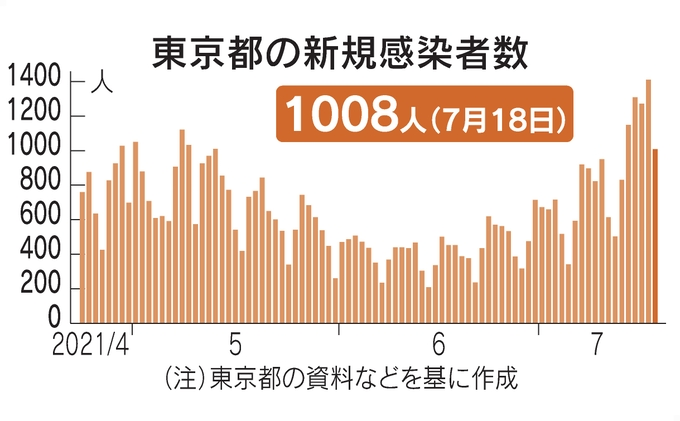
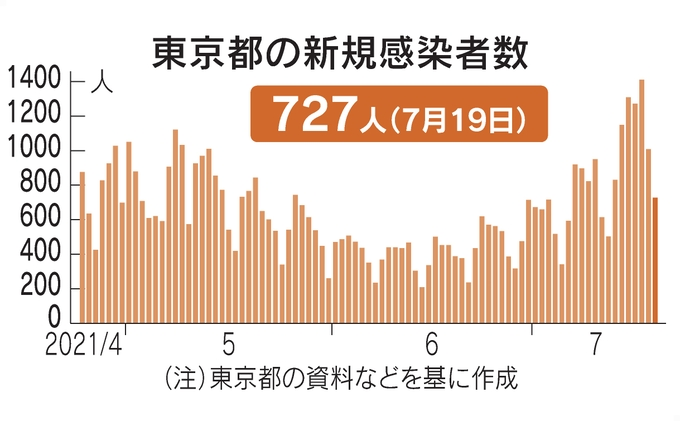
regular update

diff --git a/parts/news.php b/parts/news.php
@@ -46,6 +46,25 @@
         </li>
 
     <hr> -->
+        2021年07月19日
+    
+        <li>
+                <i class="far fa-file-alt"></i>
+                <a href="https://www.nikkei.com/article/DGXZQOCC190EW0Z10C21A7000000/" target="blank" rel="noopener">
+                東京都、新たに727人感染　7日平均で前週の145.4%</a>
+        </li>
+        <li>
+                <i class="far fa-file-alt"></i>
+                <a href="https://www.nikkei.com/article/DGXZQOUA0671Q0W1A700C2000000/" target="blank" rel="noopener">
+                「東京じゃなくていい」　コロナ・デジタル化で地方回帰</a>
+        </li>
+        <li>
+                <i class="far fa-file-alt"></i>
+                <a href="https://www.nikkei.com/article/DGXZQOUA1931S0Z10C21A7000000/" target="blank" rel="noopener">
+                ワクチン追加調達「厳しい」　河野氏、世界的不足で</a>
+        </li>
+
+    <hr>
         2021年07月18日
     
         <li>
